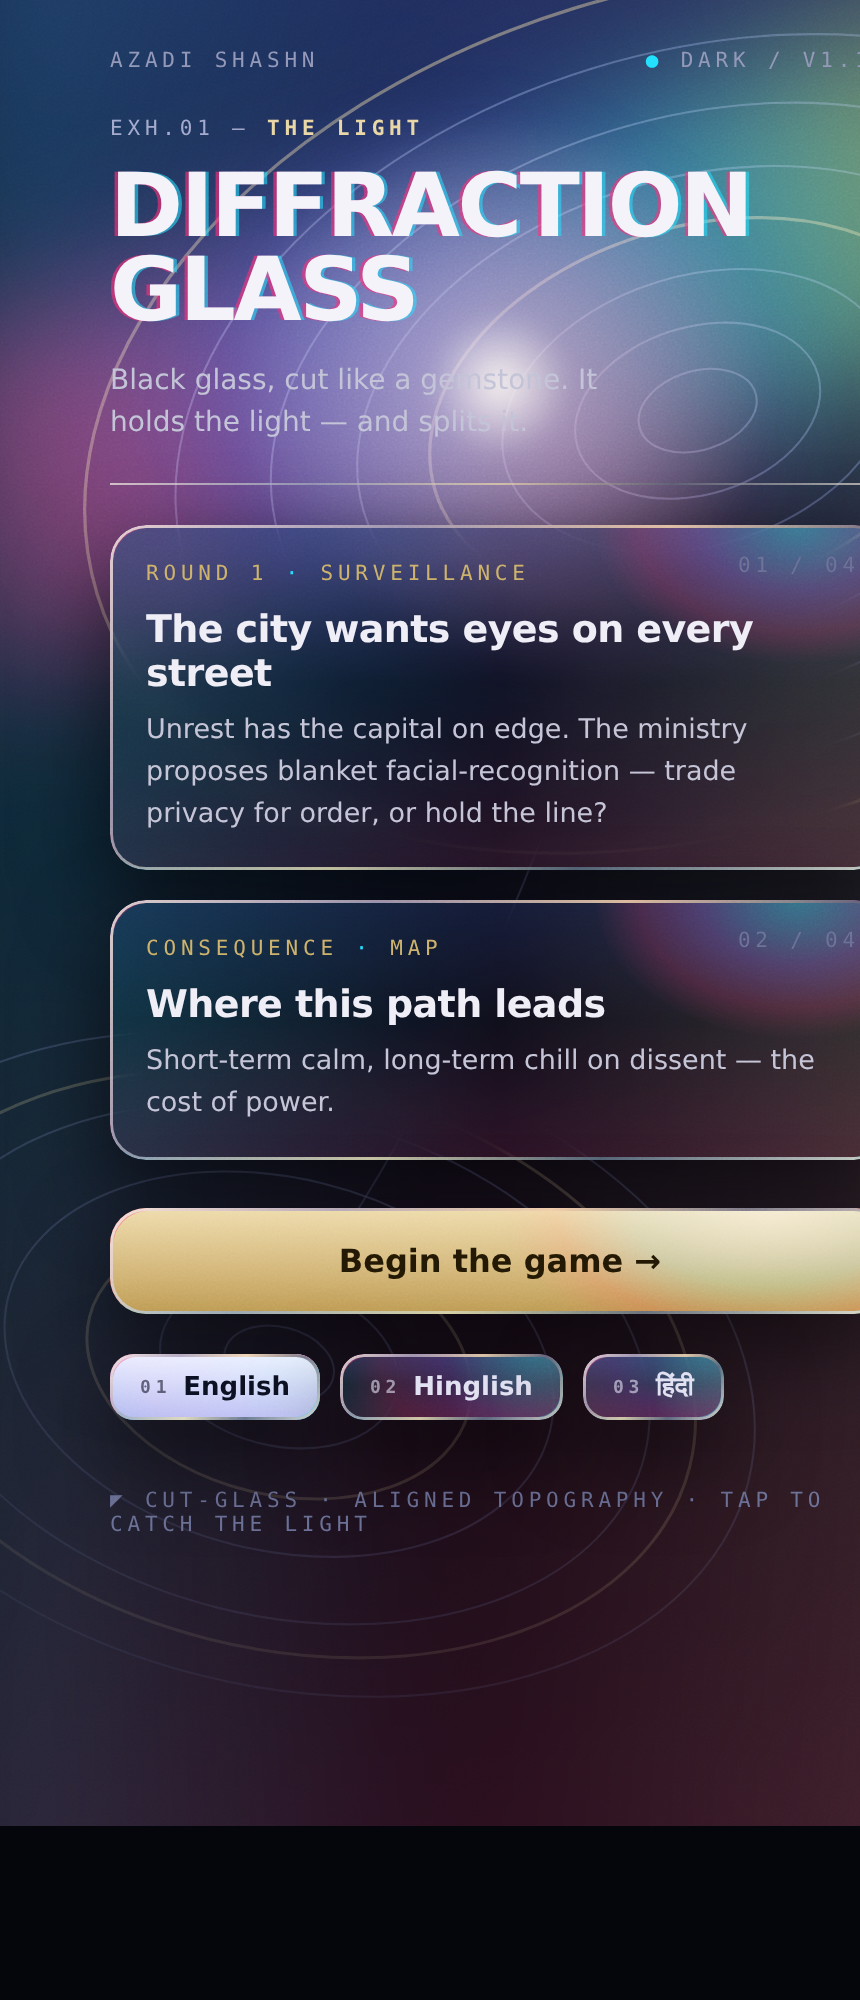
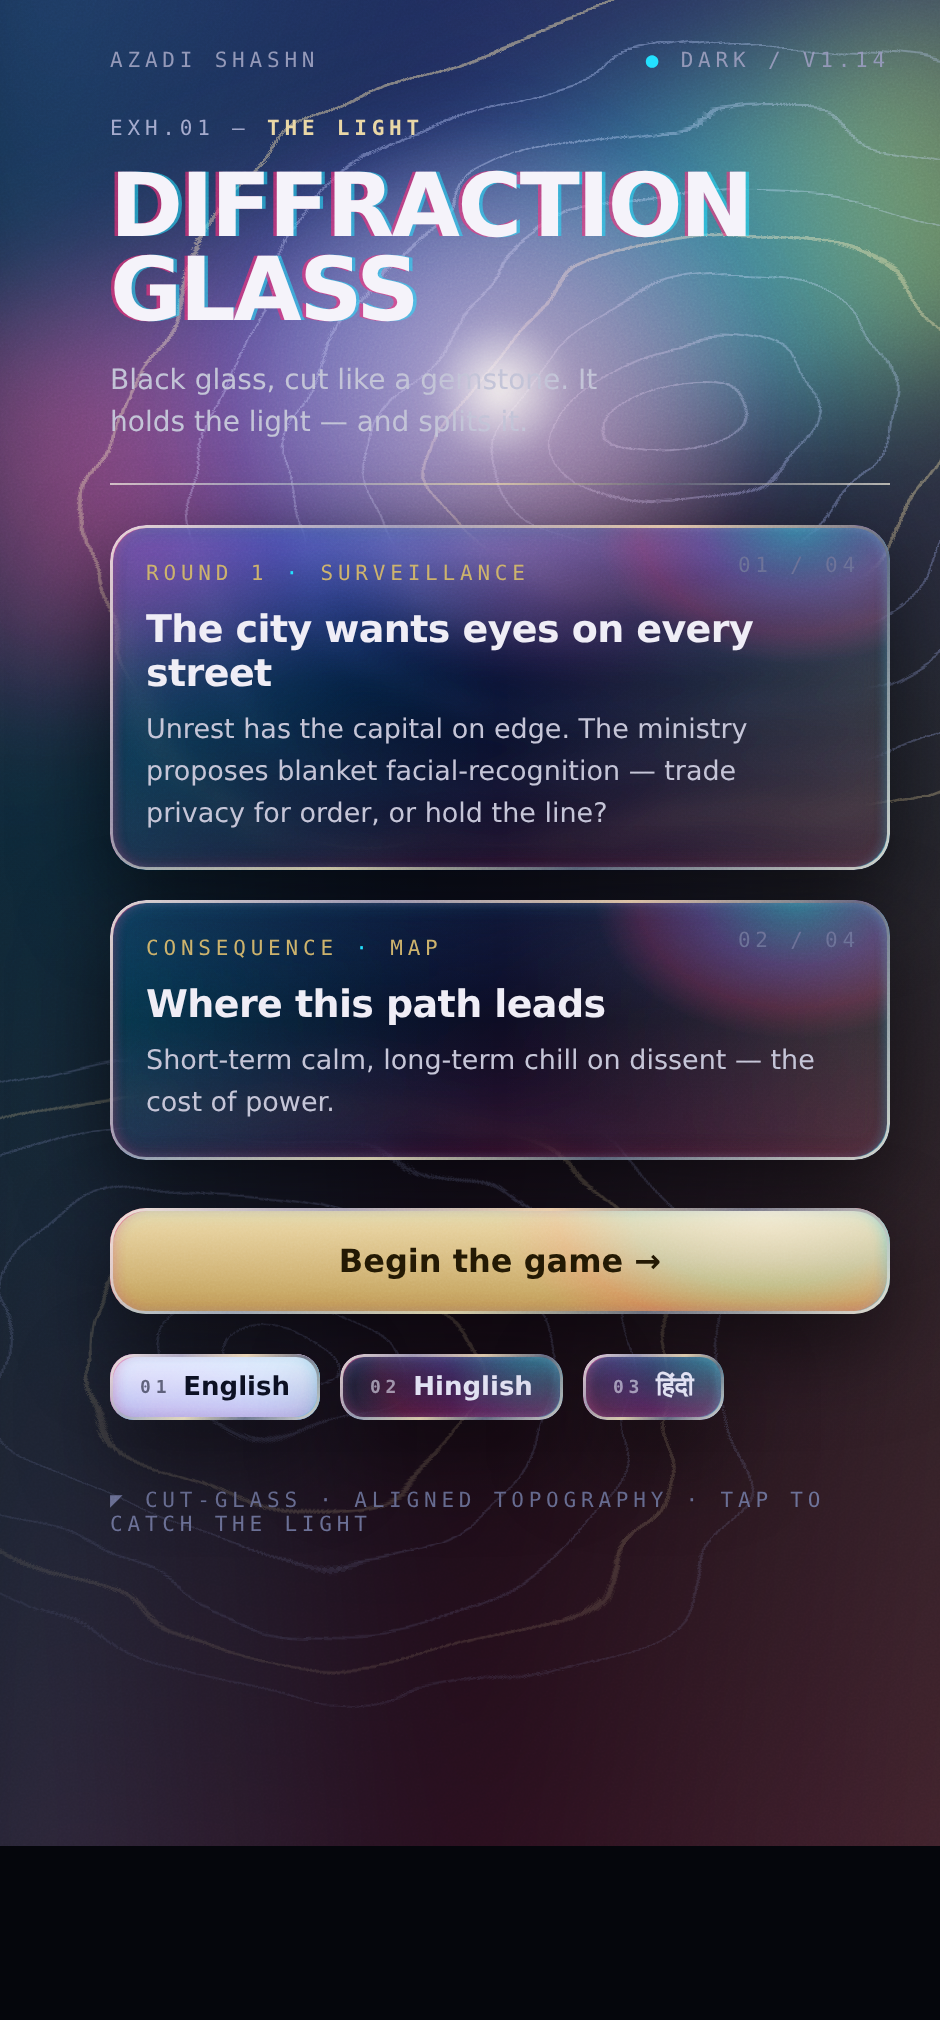
Diffraction-glass preview: organic contours + "felt" panel boundaries
Refines the iteration-6 mock per feedback:
- Contours are now organic: an SVG feTurbulence/feDisplacementMap warp breaks
  the perfect nested ellipses into imperfect topographic lines, aligned across
  the background and the glass panels.
- Panels now "feel" the contours where they meet: each glass pane lenses the
  contours crossing under it via a stronger backdrop-filter (brightness /
  saturate / hue-rotate / contrast) so the line reads brighter and colour-
  shifted inside the pane, plus a pink/cyan chromatic split fringing every edge.

Design preview only — no app code changes.

Claude-Session: https://claude.ai/code/session_01FygEfTk57dQcPns1WQqt6E

diff --git a/design/diffraction-preview.html b/design/diffraction-preview.html
@@ -49,10 +49,15 @@
   .rule{height:1px;margin:18px 0 20px;background:var(--metal);opacity:.7}
 
   .glass{position:relative;isolation:isolate;overflow:hidden;border-radius:18px;
-    background:linear-gradient(180deg,rgba(90,123,255,.14),transparent 46%,rgba(255,45,120,.1)),
-      linear-gradient(90deg,rgba(34,224,255,.12),transparent 50%,rgba(233,214,163,.12)),rgba(9,11,20,.34);
-    backdrop-filter:blur(9px) saturate(1.08);
-    box-shadow:0 16px 44px rgba(0,0,0,.55),inset 1.4px 1.4px 0 rgba(255,45,120,.4),inset -1.4px -1.4px 0 rgba(34,224,255,.38)}
+    background:linear-gradient(180deg,rgba(90,123,255,.13),transparent 46%,rgba(255,45,120,.09)),
+      linear-gradient(90deg,rgba(34,224,255,.11),transparent 50%,rgba(233,214,163,.11)),rgba(9,11,20,.20);
+    backdrop-filter:blur(7px) saturate(1.5) brightness(1.22) hue-rotate(-8deg) contrast(1.06);
+    -webkit-backdrop-filter:blur(7px) saturate(1.5) brightness(1.22) hue-rotate(-8deg) contrast(1.06);
+    box-shadow:0 16px 44px rgba(0,0,0,.55),
+      inset 0 0 0 1px rgba(255,255,255,.06),
+      inset 2.4px 0 6px rgba(255,45,120,.22),inset -2.4px 0 6px rgba(34,224,255,.22),
+      inset 0 3px 9px rgba(34,224,255,.12),inset 0 -3px 9px rgba(255,45,120,.10),
+      inset 1.4px 1.4px 0 rgba(255,45,120,.4),inset -1.4px -1.4px 0 rgba(34,224,255,.38)}
   .glass::before{content:"";position:absolute;inset:0;border-radius:inherit;padding:1.5px;background:var(--metal);
     -webkit-mask:linear-gradient(#000 0 0) content-box,linear-gradient(#000 0 0);-webkit-mask-composite:xor;mask-composite:exclude;z-index:5;opacity:.8}
   .glass::after{content:"";position:absolute;inset:0;border-radius:inherit;z-index:4;pointer-events:none;
@@ -84,28 +89,32 @@
     <div class="base"></div>
     <div class="mesh"></div>
     <svg class="topo" viewBox="0 0 430 932" preserveAspectRatio="xMidYMid slice" fill="none">
-      <g stroke="#8 b" >
+      <defs>
+        <filter id="warp" x="-25%" y="-25%" width="150%" height="150%">
+          <feTurbulence type="fractalNoise" baseFrequency="0.006 0.011" numOctaves="3" seed="11" result="t"/>
+          <feDisplacementMap in="SourceGraphic" in2="t" scale="52" xChannelSelector="R" yChannelSelector="G"/>
+        </filter>
+      </defs>
+      <g filter="url(#warp)">
+        <!-- peak A -->
+        <g transform="rotate(-17 300 250)" fill="none" stroke="#8f9bce" stroke-opacity=".6" stroke-width=".9">
+          <ellipse cx="300" cy="250" rx="26" ry="17"/><ellipse cx="300" cy="250" rx="54" ry="36"/>
+          <ellipse cx="300" cy="250" rx="86" ry="58"/><ellipse cx="300" cy="250" rx="150" ry="100"/>
+          <ellipse cx="300" cy="250" rx="188" ry="126"/><ellipse cx="300" cy="250" rx="230" ry="154"/>
+        </g>
+        <g transform="rotate(-17 300 250)" fill="none" stroke="#e9d6a3" stroke-opacity=".55" stroke-width="1.5">
+          <ellipse cx="300" cy="250" rx="118" ry="79"/><ellipse cx="300" cy="250" rx="270" ry="181"/>
+        </g>
+        <!-- peak B -->
+        <g transform="rotate(14 120 660)" fill="none" stroke="#8f9bce" stroke-opacity=".55" stroke-width=".9">
+          <ellipse cx="120" cy="660" rx="24" ry="16"/><ellipse cx="120" cy="660" rx="52" ry="35"/>
+          <ellipse cx="120" cy="660" rx="120" ry="80"/><ellipse cx="120" cy="660" rx="162" ry="108"/>
+          <ellipse cx="120" cy="660" rx="208" ry="138"/>
+        </g>
+        <g transform="rotate(14 120 660)" fill="none" stroke="#e9d6a3" stroke-opacity=".5" stroke-width="1.4">
+          <ellipse cx="120" cy="660" rx="84" ry="56"/><ellipse cx="120" cy="660" rx="182" ry="122"/>
+        </g>
       </g>
-      <!-- peak A -->
-      <g transform="rotate(-17 300 250)" fill="none" stroke="#8390c4" stroke-opacity=".55" stroke-width=".9">
-        <ellipse cx="300" cy="250" rx="26" ry="17"/><ellipse cx="300" cy="250" rx="54" ry="36"/>
-        <ellipse cx="300" cy="250" rx="86" ry="58"/><ellipse cx="300" cy="250" rx="150" ry="100"/>
-        <ellipse cx="300" cy="250" rx="188" ry="126"/><ellipse cx="300" cy="250" rx="230" ry="154"/>
-      </g>
-      <g transform="rotate(-17 300 250)" fill="none" stroke="#e9d6a3" stroke-opacity=".5" stroke-width="1.4">
-        <ellipse cx="300" cy="250" rx="118" ry="79"/><ellipse cx="300" cy="250" rx="270" ry="181"/>
-      </g>
-      <!-- peak B -->
-      <g transform="rotate(14 120 660)" fill="none" stroke="#8390c4" stroke-opacity=".5" stroke-width=".9">
-        <ellipse cx="120" cy="660" rx="24" ry="16"/><ellipse cx="120" cy="660" rx="52" ry="35"/>
-        <ellipse cx="120" cy="660" rx="120" ry="80"/><ellipse cx="120" cy="660" rx="162" ry="108"/>
-        <ellipse cx="120" cy="660" rx="208" ry="138"/>
-      </g>
-      <g transform="rotate(14 120 660)" fill="none" stroke="#e9d6a3" stroke-opacity=".45" stroke-width="1.3">
-        <ellipse cx="120" cy="660" rx="84" ry="56"/><ellipse cx="120" cy="660" rx="182" ry="122"/>
-      </g>
-      <!-- ridge -->
-      <path d="M270,320 C240,430 200,520 150,600" stroke="#8390c4" stroke-opacity=".4" stroke-width=".9" fill="none"/>
     </svg>
     <div class="streak"></div>
     <div class="orb"></div>
